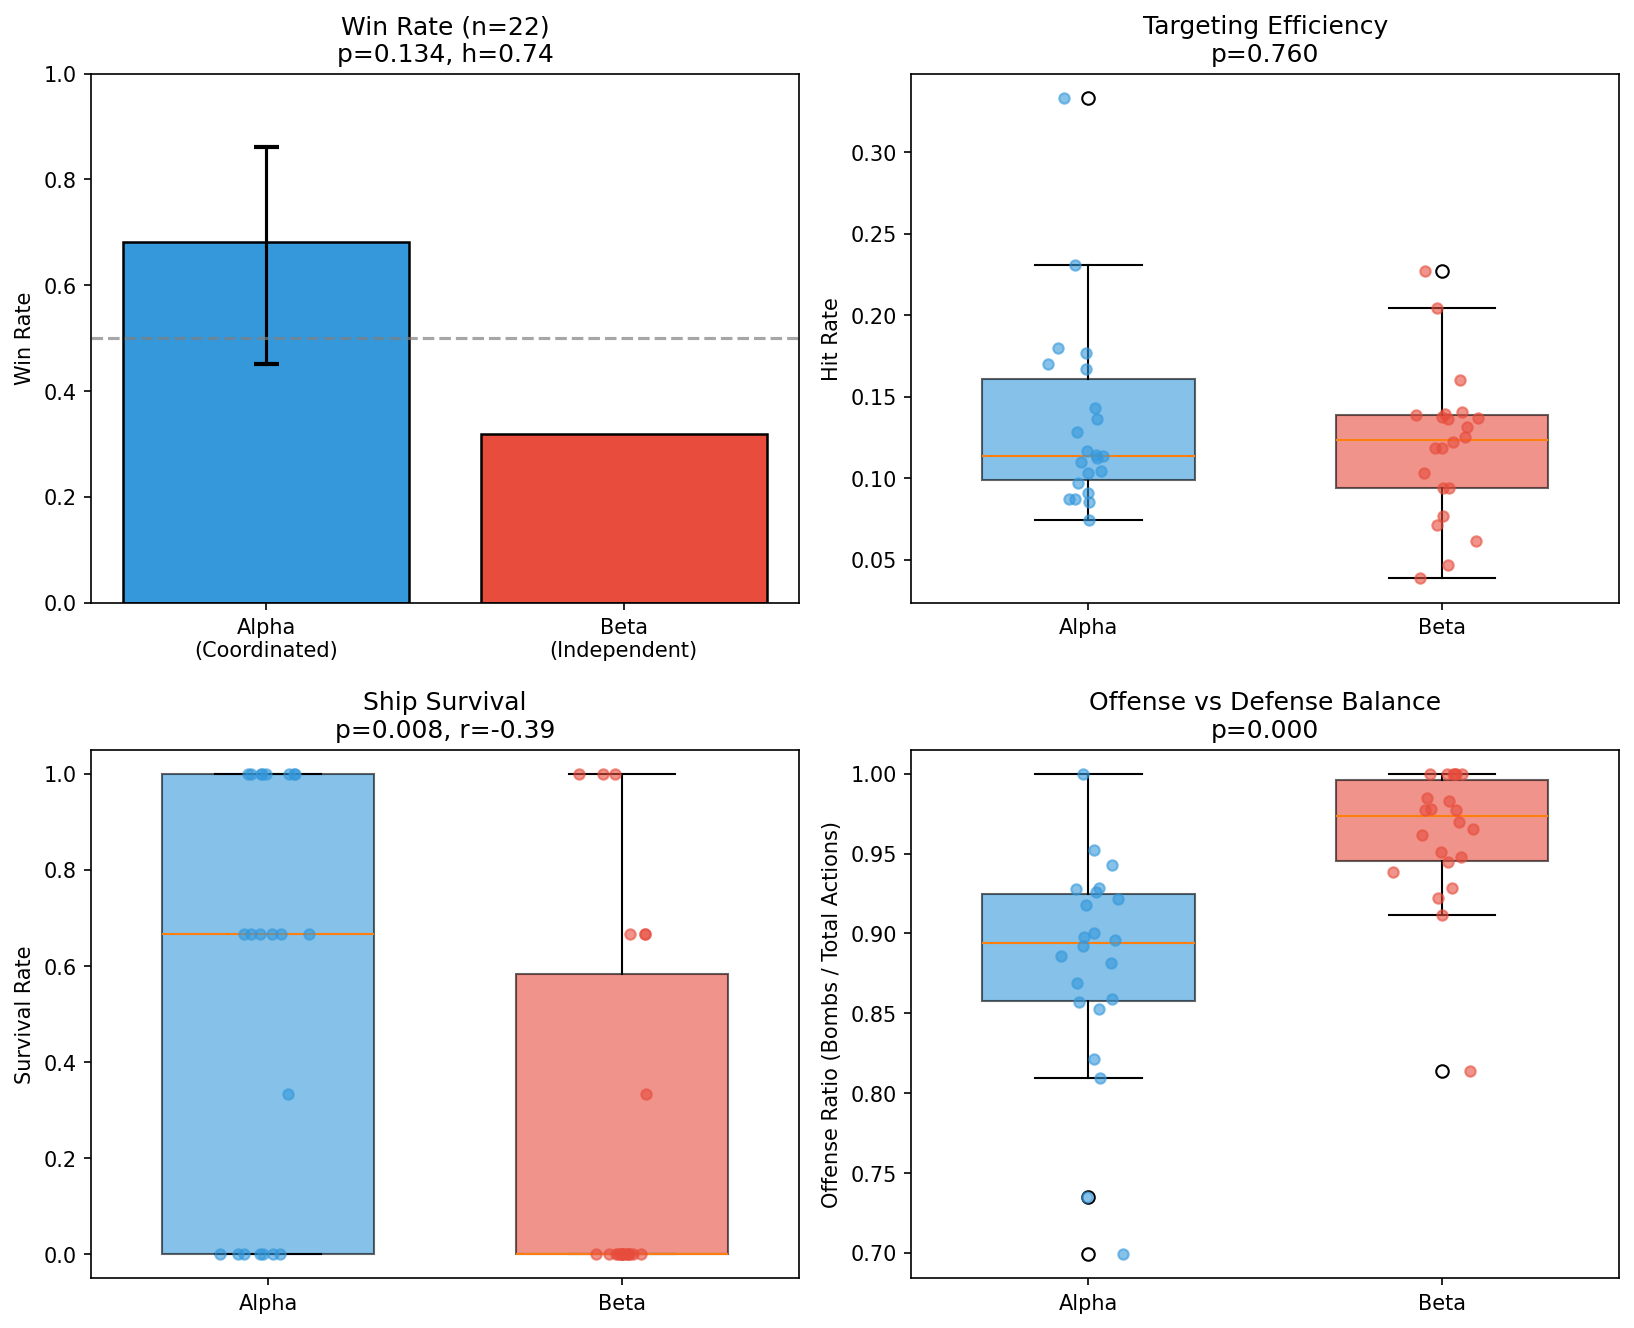
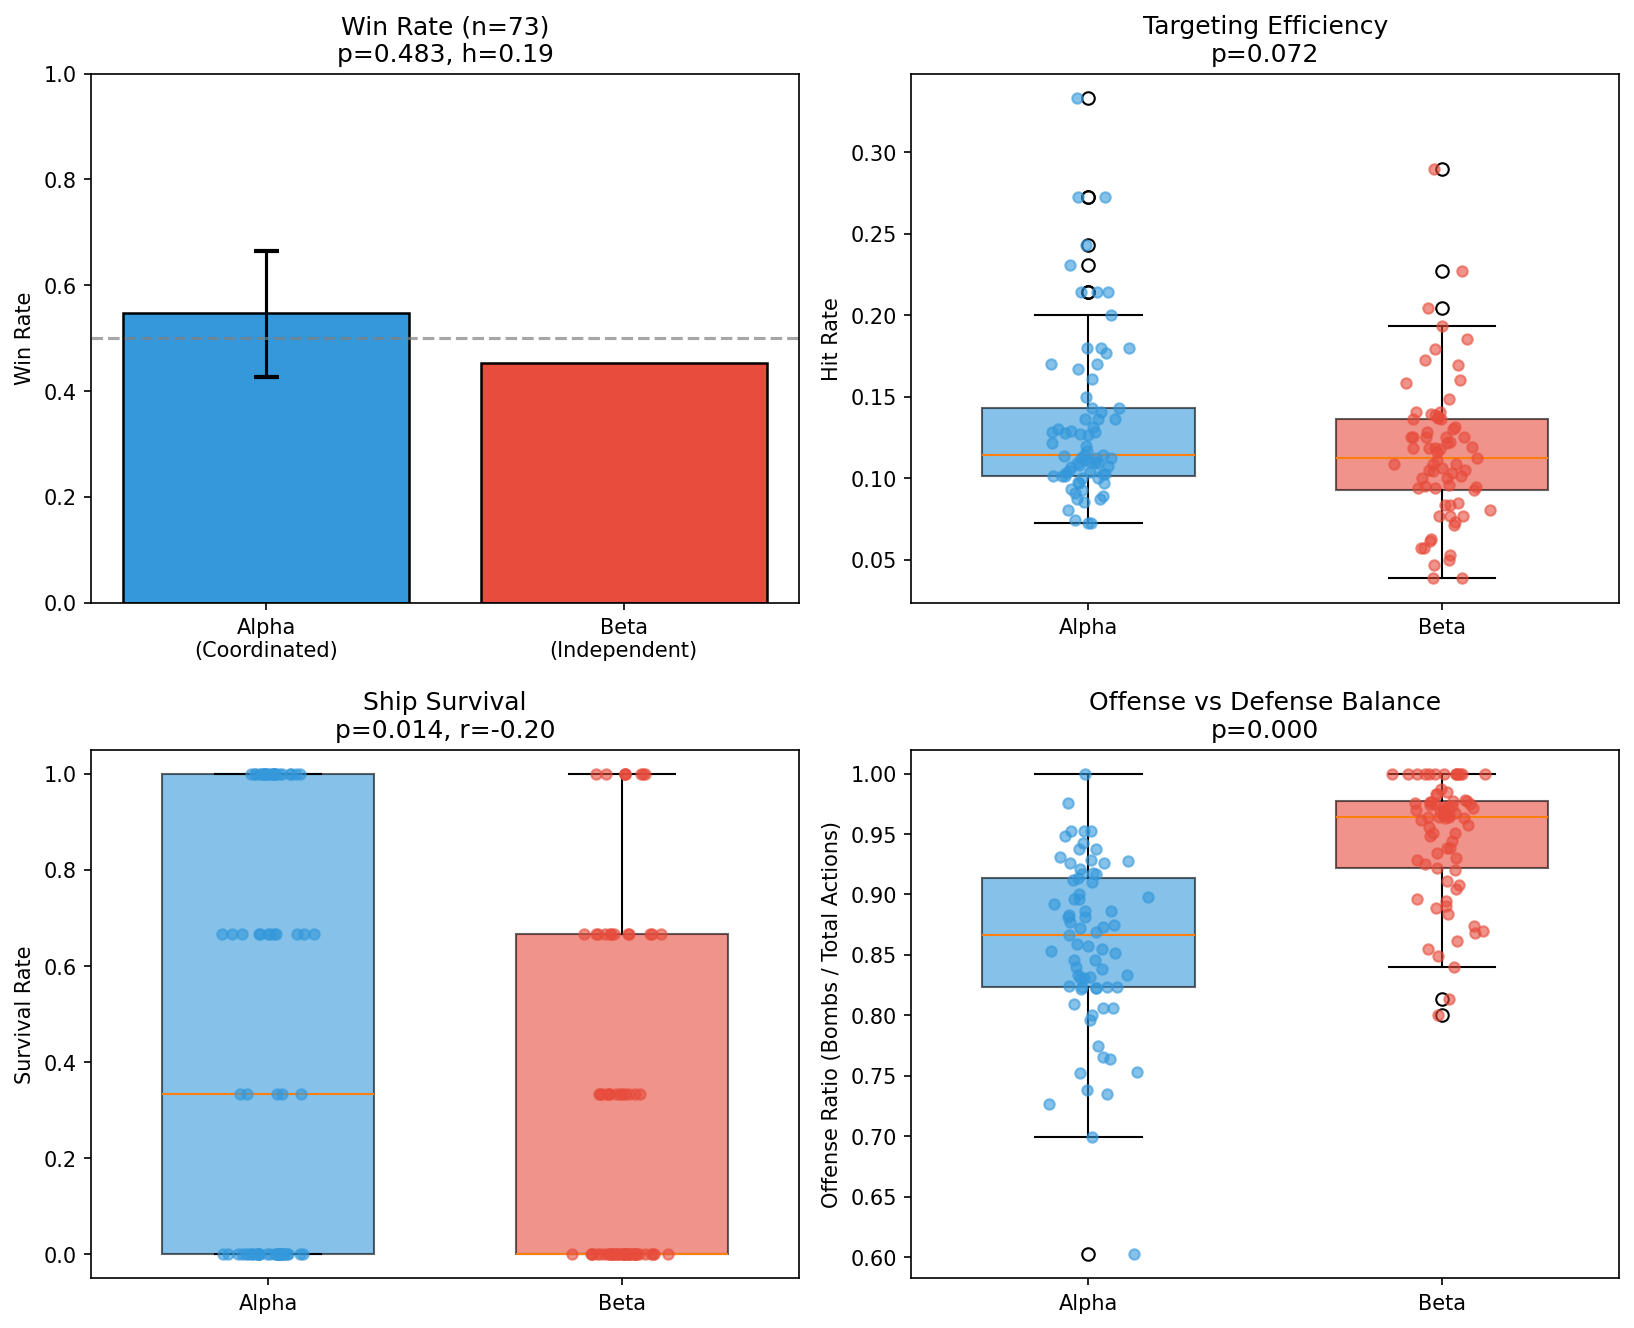
Update results with n=73 trials: coordination improves efficiency but not win rate

diff --git a/README.md b/README.md
@@ -33,21 +33,23 @@ We built a **Dynamic Battleship** testbed that isolates coordination effects:
 - No communication, no shared planning
 - Parallel decision-making
 
-## Preliminary Results (n = 22)
+## Results (n = 73)
 
-> **Note:** This is an ongoing experiment. Results below are preliminary and require additional trials for statistical confirmation. We are actively running more simulations and refining the experimental protocol.
+Loaded 73 valid games, skipped 29 error/incomplete games.
 
 ### Summary Table
 
 | Metric | Alpha (Coordinated) | Beta (Independent) | p-value |
 |--------|---------------------|-------------------|---------|
-| Win Rate | **68.2%** (15/22) | 31.8% (7/22) | 0.134 |
-| Ship Survival | **56.1%** | 24.2% | 0.008** |
-| Repeated Targets/Game | **2.86** | 13.41 | <0.001*** |
-| Offense Ratio | 88.1% | 96.2% | <0.001*** |
-| First Elimination | 5 games | 17 games | - |
+| Win Rate | 54.8% (40/73) | 45.2% (33/73) | 0.483 |
+| Ship Survival | **44.7%** | 27.9% | 0.014* |
+| Repeated Targets/Game | **3.01** | 16.22 | <0.001*** |
+| Offense Ratio | 85.9% | 94.7% | <0.001*** |
+| Hit Rate | 13.3% | 11.5% | 0.072 |
+| Kills/Game | 2.16 | 2.23 | - |
+| First Elimination | 20 games | 53 games | - |
 
-Effect size (Cohen's h): 0.74 (large)
+Effect size for win rate (Cohen's h): 0.19 (small)
 
 ![Coordination Analysis](plots/coordination_analysis.png)
 
@@ -55,42 +57,50 @@ Effect size (Cohen's h): 0.74 (large)
 
 **RQ1: Does coordination improve performance?**
 
-The coordinated team (Alpha) wins 68% of games compared to 32% for independent agents. While not yet statistically significant (p = 0.134) due to limited sample size, the effect size is large (h = 0.74). Critically, survival rate shows a significant difference: coordinated teams preserve 56% of ships vs. 24% for independent teams (p = 0.008).
+No. The coordinated team (Alpha) wins 55% of games compared to 45% for independent agents, but this difference is not statistically significant (p = 0.483, 95% CI: [42.7%, 66.5%]). The effect size is small (h = 0.19). **Coordination does not translate to more wins.**
+
+However, coordination does improve *survival*: coordinated teams preserve 45% of ships vs. 28% for independent teams (p = 0.014). Teams that coordinate lose fewer agents even when they don't win.
 
 **RQ2: What mechanisms drive the difference?**
 
-The clearest finding is **targeting efficiency**. Independent agents waste nearly 5x more bombs on previously-targeted coordinates (13.4 vs 2.9 repeated targets per game, p < 0.001). This suggests coordination's primary benefit is *collective memory* and *action deconfliction*, not improved individual decision quality.
+The clearest finding is **targeting efficiency**. Independent agents waste over 5x more bombs on previously-targeted coordinates (16.2 vs 3.0 repeated targets per game, p < 0.001). This is coordination's primary measurable benefit: *collective memory* and *action deconfliction*.
 
-Supporting this interpretation: hit rates are nearly identical (13.5% vs 11.9%, p = 0.76). When agents do shoot at new targets, they perform equally well. Coordination doesn't make agents smarter; it prevents them from duplicating effort.
+Critically, hit rates are nearly identical (13.3% vs 11.5%, p = 0.072). When agents shoot at new targets, they perform equally well. Kill counts are also equivalent (2.16 vs 2.23 per game). **Coordination doesn't make agents smarter or more lethal; it only prevents them from duplicating effort.**
+
+The efficiency gains don't convert to wins because Beta compensates through sheer volume. Despite wasting shots on repeated targets, Beta fires nearly as many total bombs (4421 vs 4522) and achieves comparable kills.
 
 **RQ3: How does coordination affect strategy?**
 
-Coordinated teams allocate more resources to defense. Alpha uses 202 moves across all games vs. Beta's 64 (offense ratio: 88% vs 96%, p < 0.001). This defensive flexibility likely explains the survival gap. Beta's near-exclusive focus on offense (96%) means they rarely evade incoming attacks.
+Coordinated teams allocate more resources to defense. Alpha uses 789 moves vs. Beta's 314 (offense ratio: 86% vs 95%, p < 0.001). This defensive flexibility explains the survival gap but not a win rate advantage.
 
-The first-elimination data reinforces this: Beta loses a player first in 17/22 games (77%). Coordination provides early-game protection.
+The first-elimination data is striking: Beta loses a player first in 53/73 games (73%). Coordination provides early-game protection. Yet this advantage dissipates over the course of the game.
 
 ### Interpretation
 
-Coordination benefits emerge not from better individual reasoning but from **collective resource allocation**:
+Coordination benefits are real but narrow:
 
-1. **Deconfliction:** Deliberation prevents multiple agents from targeting the same coordinate
-2. **Strategic balance:** Shared planning enables offense/defense tradeoffs that independent agents miss
-3. **Early protection:** Coordinated defense reduces first-blood disadvantage
+1. **Deconfliction:** Deliberation prevents multiple agents from targeting the same coordinate (5x fewer wasted shots)
+2. **Strategic balance:** Shared planning enables defense allocation that independent agents neglect
+3. **Early protection:** Coordinated teams rarely lose the first player
 
-## Limitations and Ongoing Work
+However, these benefits don't compound into victories. Possible explanations:
 
-This project is **actively in development**. Current limitations include:
+- **Deliberation overhead:** The propose-critique-vote cycle may slow Alpha's tempo, allowing Beta to compensate
+- **Diminishing returns:** Once deconfliction is achieved, additional coordination adds little value
+- **Offense dominance:** In this game, raw aggression may be as effective as strategic balance
 
-- **Sample size:** n = 22 valid games is insufficient for definitive conclusions on win rate. We estimate needing n > 50 for adequate statistical power.
-- **Error rate:** 29/51 games (57%) ended in errors or timeouts, indicating system stability issues being addressed.
-- **Single model:** Results are from one LLM configuration. Generalization across models is untested.
-- **Fixed protocol:** Only one coordination mechanism (propose-critique-vote) has been evaluated.
+## Limitations and Future Work
+
+- **Game-specific:** Results may not generalize beyond Battleship's mechanics
+- **Single model:** Results are from one LLM configuration (generalization untested)
+- **Fixed protocol:** Only one coordination mechanism (propose-critique-vote) has been evaluated
+- **Invalid game rate:** 29/102 games (28%) were invalid due to errors or incompleteness
 
 **Planned extensions:**
-- Scale to 100+ valid trials
-- Test alternative coordination protocols (e.g., hierarchical, emergent)
+- Test alternative coordination protocols (hierarchical, emergent, minimal)
 - Vary team sizes and ship configurations
 - Cross-model experiments
+- Investigate why efficiency gains don't convert to wins
 
 ---
 
@@ -160,7 +170,3 @@ If you use this testbed, please cite:
   note={Work in progress}
 }
 ```
-
----
-
-*This is an active research project. Results are preliminary and subject to change as we collect more data.*
